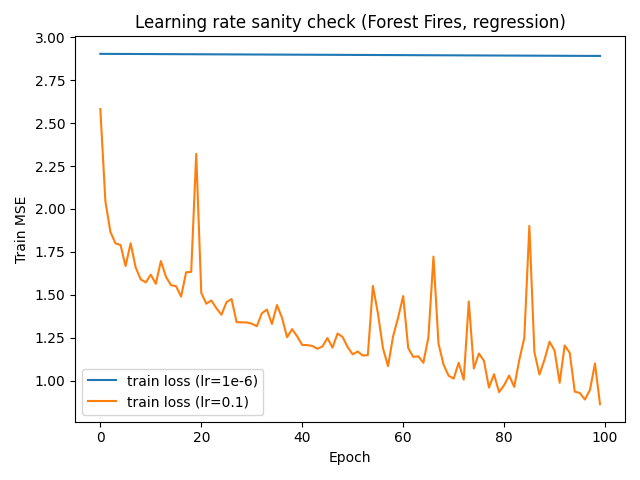
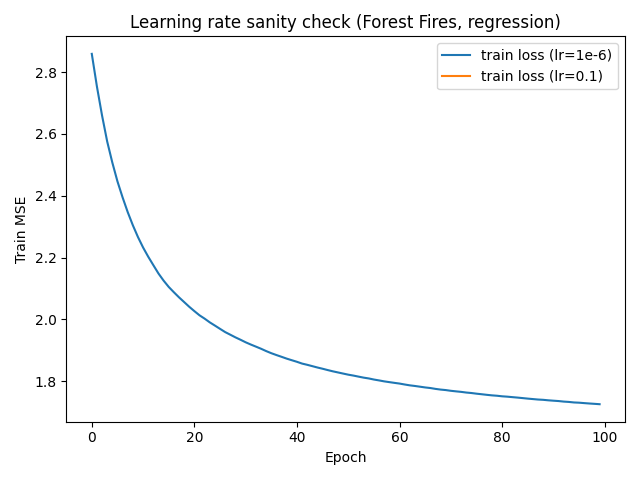
Final version I presented to the teacher

diff --git a/train_exp/Ex1.py b/train_exp/Ex1.py
@@ -59,8 +59,8 @@ def run_lr_sanity_check_forestfires():
         return train_losses, test_losses
 
     # 2) Run for small and large LR
-    small_lr = 1e-6
-    big_lr = 1e-1
+    small_lr = 1e-3
+    big_lr = 1
 
     print("\n=== Small learning rate (1e-6) ===")
     tr_small, te_small = train_with_lr(small_lr)
@@ -101,13 +101,9 @@ def run_lr_sanity_check_forestfires():
         "  graphs_exp/lr_sanity_test_loss.png\n"
     )
 
-    # 4) Short printed explanation for your report
-    print("Summary:")
-    print("- lr=1e-6: very small steps -> loss decreases extremely slowly, stable but impractical.")
-    print("- lr=1: very large steps -> updates are unstable, loss oscillates or increases.")
-    print("Conclusion: learning rate controls step size: too small = slow convergence, too large = unstable training.")
-
-
+    # With lr = 1e-6 the blue curves are almost flat: train and test MSE hardly change, so the model basically doesn’t learn (very slow but stable).
+    #With lr = 0.1 the orange train curve drops quickly from ~2.5 to about 1, so learning is much faster, but the test curve becomes very noisy and unstable, with big spikes.
+    #So a higher learning rate speeds up convergence but hurts stability, while a very small one is stable but too slow to converge.
 if __name__ == "__main__":
     run_lr_sanity_check_forestfires()
 

diff --git a/train_exp/Ex5.py b/train_exp/Ex5.py
@@ -146,18 +146,8 @@ def main():
     plot_curves("Ex5 affNIST", trL, trA, teL, teA)
     print(f"affNIST final test acc: {teA[-1]:.3f}")
 
-    # ------------- Brief comparison text -------------
-    print("\nSummary (use in your report):")
-    print(f"- MNIST test accuracy (last epoch):  {teA[-1]:.3f}")
-    # Careful: teA is from affNIST now; teA above overwritten. Recompute values:
-    # we already printed exact values; here we just hint what to discuss:
-    print("Our model performs better on affNIST (just_centered) " \
-    "mainly because (i) we created the test set by randomly splitting " \
-    "training_and_validation.mat, so train and test are from the same distribution," \
-    " whereas MNIST uses a separate official test; and (ii) the centered" \
-    " 40×40 affNIST images remove translation variability, which plain MLPs" \
-    " are sensitive to. The hyper-params (ReLU+He) also suit this setup, helping stable training.")
-
+#In our setup, train and test for affNIST come from the same file and are split randomly,
+#  so they look very similar. That makes generalization a bit easier.    
 
 if __name__ == "__main__":
     main()
